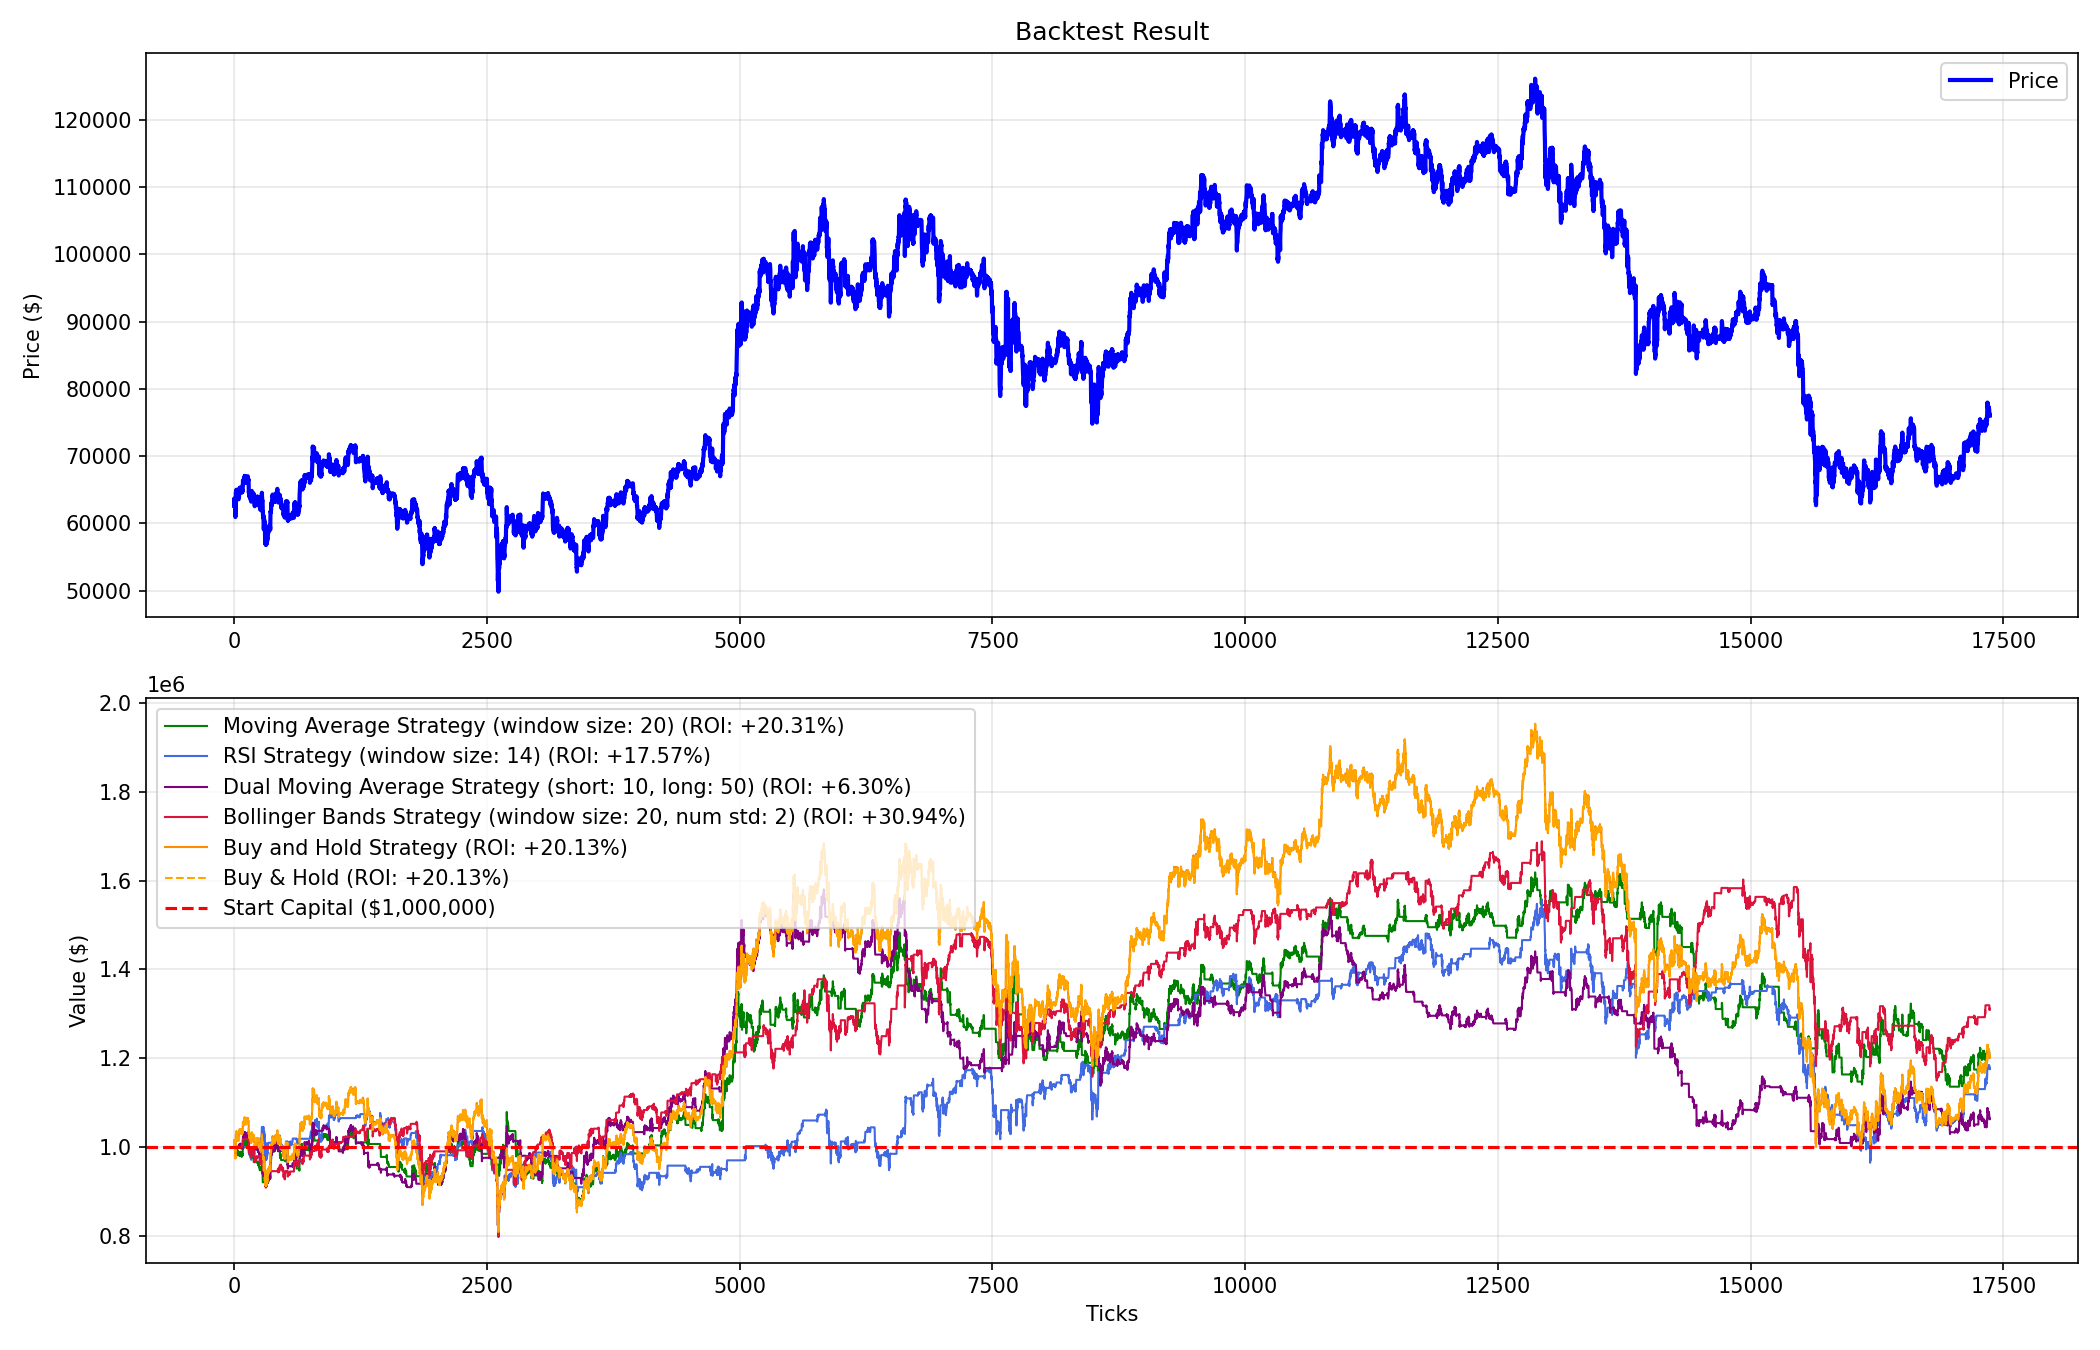
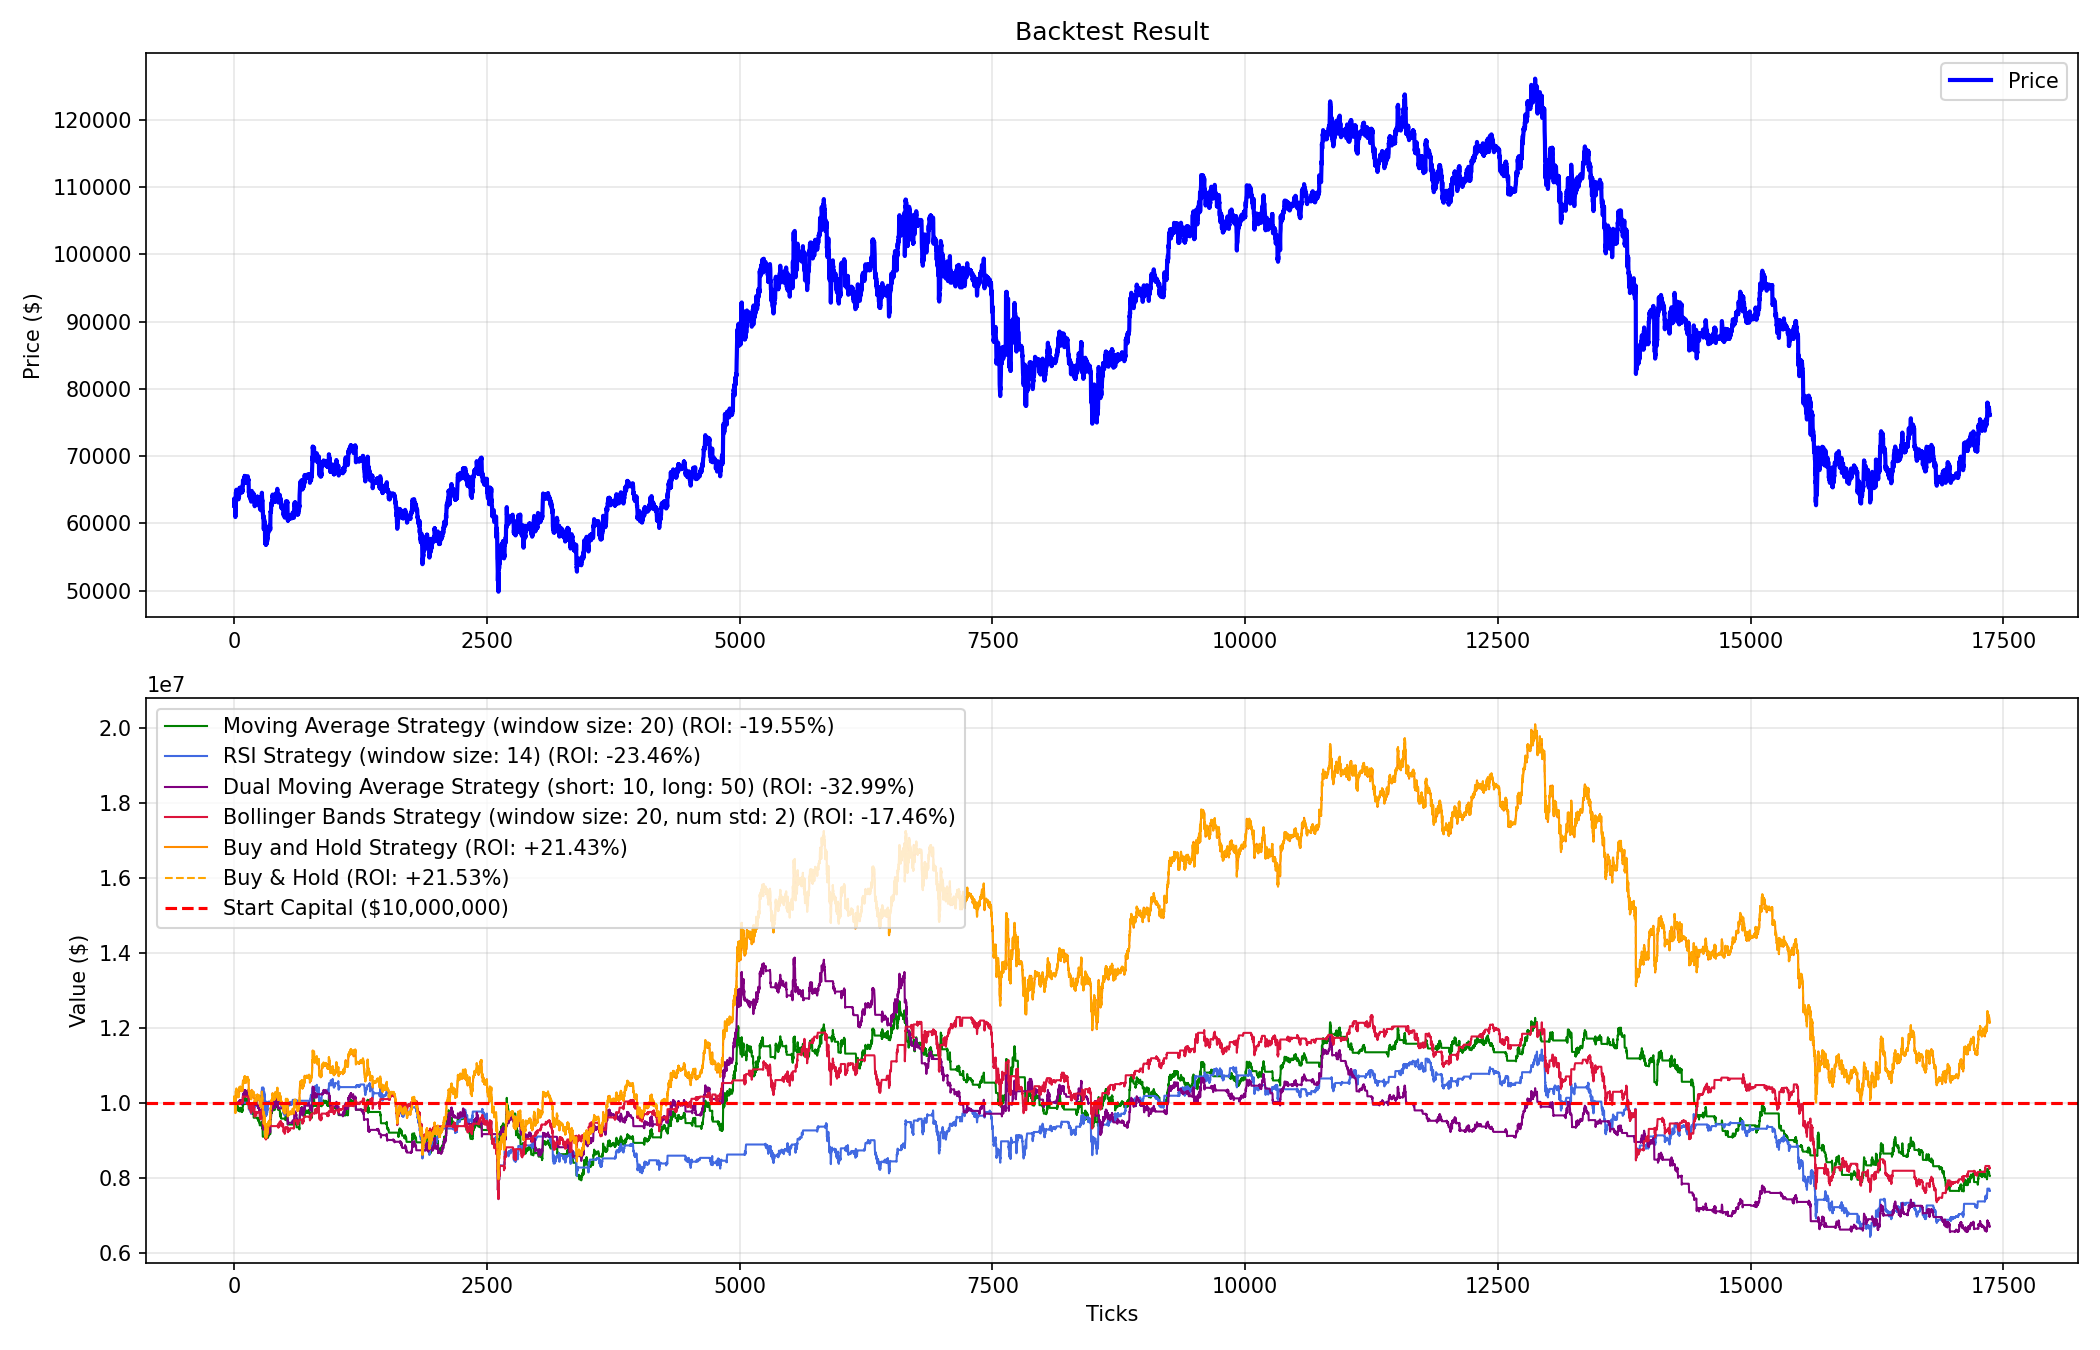
implemented cpp calculation

diff --git a/main.py b/main.py
@@ -1,15 +1,74 @@
 import pandas as pd
 import numpy as np
+import subprocess
+import sys
+import time
+import os
 from load_data import get_yahoo_data
 from backtest import backtest
 from strategy import mov_avg_strat, rsi_strat, dual_ma_strat, bollinger_strat, buy_and_hold_strat
 from config import CONFIG
 
 
+def run_cpp_backtest(csv_path):
+    # Binary-Name je nach OS
+    binary = "./data/cpp/backtest.exe" if sys.platform == "win32" else "./data/cpp/backtest"
+
+    if not os.path.exists(binary):
+        print("\nC++ Binary not found. Compile with: g++ -O2 -std=c++17 -o data/cpp/backtest.exe data/cpp/backtest.cpp")
+        return None
+
+    result = subprocess.run(
+        [binary, csv_path, "all"],
+        capture_output=True,
+        text=True
+    )
+
+    if result.returncode != 0:
+        print(f"\nC++ Fehler: {result.stderr}")
+        return None
+
+    # parsing output - every strategy is separated by "---"
+    all_results = []
+    current = {}
+    for line in result.stdout.strip().split('\n'):
+        if line == "---":
+            if current:
+                all_results.append(current)
+                current = {}
+        elif ':' in line:
+            key, value = line.split(':', 1)
+            try:
+                current[key] = float(value)
+            except ValueError:
+                current[key] = value
+    if current:
+        all_results.append(current)
+
+    return all_results
+
+
+def print_cpp_comparison(python_ms, cpp_results):
+    if not cpp_results:
+        return
+
+    total_cpp_ms = sum(r["runtime_ms"] for r in cpp_results)
+
+    print("\n" + "="*60)
+    print("PYTHON vs C++ PERFORMANCE")
+    print("="*60)
+    print(f"Python:  {python_ms:.1f}ms")
+    print(f"C++:     {total_cpp_ms:.1f}ms")
+    print(f"Speedup: {python_ms / total_cpp_ms:.0f}x faster")
+    print("="*60)
+
+
 def main():
     print("\n" + "="*60)
     print("BACKTESTER STARTER")
     print("="*60)
+
+    csv_path = f'data/{CONFIG["data"]["ticker"]}_live.csv'
 
     # Loading data
     get_yahoo_data(
@@ -18,7 +77,7 @@ def main():
         interval=CONFIG["data"]["interval"]
     )
 
-    # Nur enabled Strategien initialisieren
+    # only initialize enabled strategies
     strategies = []
 
     if CONFIG["strategies"]["moving_average"]["enabled"]:
@@ -48,20 +107,26 @@ def main():
         ))
 
     if CONFIG["strategies"]["buy_and_hold"]["enabled"]:
-        strategies.append(buy_and_hold_strat(
-        ))
+        strategies.append(buy_and_hold_strat())
 
     # Initialize backtest
     backtest_runner = backtest(
-        charts_file=f'MVP/data/{CONFIG["data"]["ticker"]}_live.csv',
+        charts_file=csv_path,
         strategies=strategies,
         initial_capital=CONFIG["backtest"]["initial_capital"]
     )
 
-    # Run backtest
+    # Python Backtest ? Timer
+    start = time.time()
     backtest_runner.load_data()
     backtest_runner.run_backtest()
+    python_ms = (time.time() - start) * 1000
+
     backtest_runner.show_results()
+
+    # C++ Backtest ? Comparison
+    cpp_results = run_cpp_backtest(csv_path)
+    print_cpp_comparison(python_ms, cpp_results)
 
 
 if __name__ == '__main__':

diff --git a/portfolio.py b/portfolio.py
@@ -12,21 +12,25 @@ class portfolio:
         self.cash = initial_capital
         self.shares = 0
         self.initial_capital = initial_capital
+        self.fees = 0
 
         self.buy_history = []
         self.sell_history = []
 
     # The check_buy method checks if the portfolio has enough cash to buy a certain number of shares at a given price. It calculates the total cost of the purchase and compares it to the available cash.
     def check_buy(self, size, price):
-        kosten = size * price
-        return self.cash >= kosten
+        costs = size * price
+        return self.cash >= costs
     
     # The buy method attempts to buy a certain number of shares at a given price. It first checks if the purchase is possible using the check_buy method. If it is, it deducts the cost from the cash, adds the shares to the portfolio, and records the purchase in the buy history. If not, it prints an error message and returns False.
     def buy(self, size, price):
-        kosten = size * price
+        costs = size * price
+        fee = costs * CONFIG["transaction_cost"]
+        costs += fee
         if self.check_buy(size,price):
-            self.cash -= kosten
+            self.cash -= costs
             self.shares += size
+            self.fees += fee
             self.buy_history.append((size, price))
             return True
         else: 
@@ -41,9 +45,12 @@ class portfolio:
     def sell(self, size, price):
 
         revenue = size * price
+        fee = revenue * CONFIG["transaction_cost"]
+        revenue -= fee
         if self.check_sell(size):
             self.cash += revenue
             self.shares -= size
+            self.fees += fee
             self.sell_history.append((size, price))
             return True
         else:

diff --git a/backtest.py b/backtest.py
@@ -15,7 +15,21 @@ class backtest:
 
     def load_data(self):
         df = pd.read_csv(self.charts_file)
+
+        if df.empty or 'price' not in df.columns:
+            raise ValueError(
+                f"No valid price data found in {self.charts_file}. "
+                "Ensure data download succeeded and CSV contains a 'price' column with rows."
+            )
+
         self.charts = df['price'].values
+
+        if len(self.charts) == 0:
+            raise ValueError(
+                f"No chart rows found in {self.charts_file}. "
+                "Backtest requires at least one price tick."
+            )
+
         return self.charts
 
     def run_backtest(self):
@@ -56,6 +70,7 @@ class backtest:
                 "max_dd":         p.max_dd(total_history),
                 "sharpe":         p.sharpe_ratio(total_history),
                 "win_rate":       win_rate,
+                "total_fees":     p.fees,
                 "total_trades":   total_trades,
                 "final_value":    total_history[-1]
             }
@@ -76,7 +91,7 @@ class backtest:
         bandh_max_dd = portfolio(self.initial_capital).max_dd(bandh_history)
 
         # Summary Tabelle
-        headers = ["Strategy", "End Capital", "P&L", "ROI", "Max DD", "Sharpe", "Win Rate", "Trades"]
+        headers = ["Strategy", "End Capital", "P&L", "ROI", "Max DD", "Sharpe", "Win Rate", "Total Fees", "Trades"]
         rows = []
 
         for name, r in self.results.items():
@@ -88,6 +103,7 @@ class backtest:
                 f"{r['max_dd']:.2f}%",
                 f"{r['sharpe']:.2f}",
                 f"{r['win_rate']:.2f}%",
+                f"${r['total_fees']:.2f}",
                 r['total_trades']
             ])
 

diff --git a/load_data.py b/load_data.py
@@ -6,14 +6,29 @@ def get_yahoo_data(ticker="BTC-USD", period="1y", interval="1h"):
     
     # Download Data from Yahoo Finance
     data = yf.download(tickers=ticker, period=period, interval=interval)
+
+    if data.empty:
+        raise ValueError(
+            f"No data downloaded for {ticker} (period={period}, interval={interval}). "
+            "Please check internet connection, ticker symbol, or Yahoo interval limits."
+        )
     
     # Making sure the data directory exists
     if not os.path.exists('MVP/data'):
         os.makedirs('MVP/data')
         
-    # Extracting relevant columns and saving to CSV
-    df = data[['Close']].droplevel(1, axis=1).reset_index()
+    # Extract relevant columns from both MultiIndex and flat-column formats.
+    close_series = data['Close']
+    if isinstance(close_series, pd.DataFrame):
+        close_series = close_series.iloc[:, 0]
+
+    df = close_series.reset_index()
     df.columns = ['tick', 'price'] 
+
+    if df.empty:
+        raise ValueError(
+            f"Downloaded dataset for {ticker} contains no rows after processing."
+        )
     
     # Save to CSV
     df.to_csv(f'MVP/data/{ticker}_live.csv', index=False)

diff --git a/config.py b/config.py
@@ -1,11 +1,12 @@
 CONFIG = {
     "data": {
         "ticker": "BTC-USD",            #Type of Stock
-        "period": "2y",                 #Timeframe of Data
+        "period": "1y",                 #Timeframe of Data
         "interval": "1h"                #Tick-Duration
     },
+    "transaction_cost": 0.001,            #Transaction Cost (0.1%)
     "backtest": {
-        "initial_capital": 1_000_000,   #Initial Capital
+        "initial_capital": 10000000,   #Initial Capital
     },
     "strategies": {
         "buy_and_hold": {

diff --git a/README.md b/README.md
@@ -8,11 +8,69 @@ Next To-Dos:
 - (Done) Buy and Hold Benchmark
 - (Done) Config instead of Hardcoding
 - (Done) Multiple Strategies
-- () Transacition Costs
+- (Done) Transacition Costs
 - () Signal Visualisation
 - () C++ Engine
 - () Plotly for interactive Chart
 
+## C++ Engine
+
+### Build
+**Windows:**
+```bash
+g++ -O2 -std=c++17 -o backtest.exe data/cpp/backtest.cpp
+```
+
+**Mac/Linux:**
+```bash
+g++ -O2 -std=c++17 -o backtest data/cpp/backtest.cpp
+# or simply:
+make
+```
+
+### Run
+```bash
+# Windows
+backtest.exe data/BTC-USD_live.csv all
+
+# Mac/Linux  
+./backtest data/BTC-USD_live.csv all
+```
+
+## Requirements
+
+### Python
+```bash
+pip install -r requirements.txt
+```
+
+### C++ Engine
+Requires g++ (GCC):
+
+**Windows:** 
+```bash
+winget install MSYS2.MSYS2
+# In MSYS2 Terminal:
+pacman -S mingw-w64-x86_64-gcc
+# In Powershell
+[System.Environment]::SetEnvironmentVariable("Path", $env:Path + ";C:\msys64\mingw64\bin", "User")
+```
+
+**Mac:**
+```bash
+xcode-select --install
+```
+
+**Linux:**
+```bash
+sudo apt install g++
+```
+
+Then build:
+```bash
+cd cpp
+make
+```
 
 ## Performance Metrics
 
